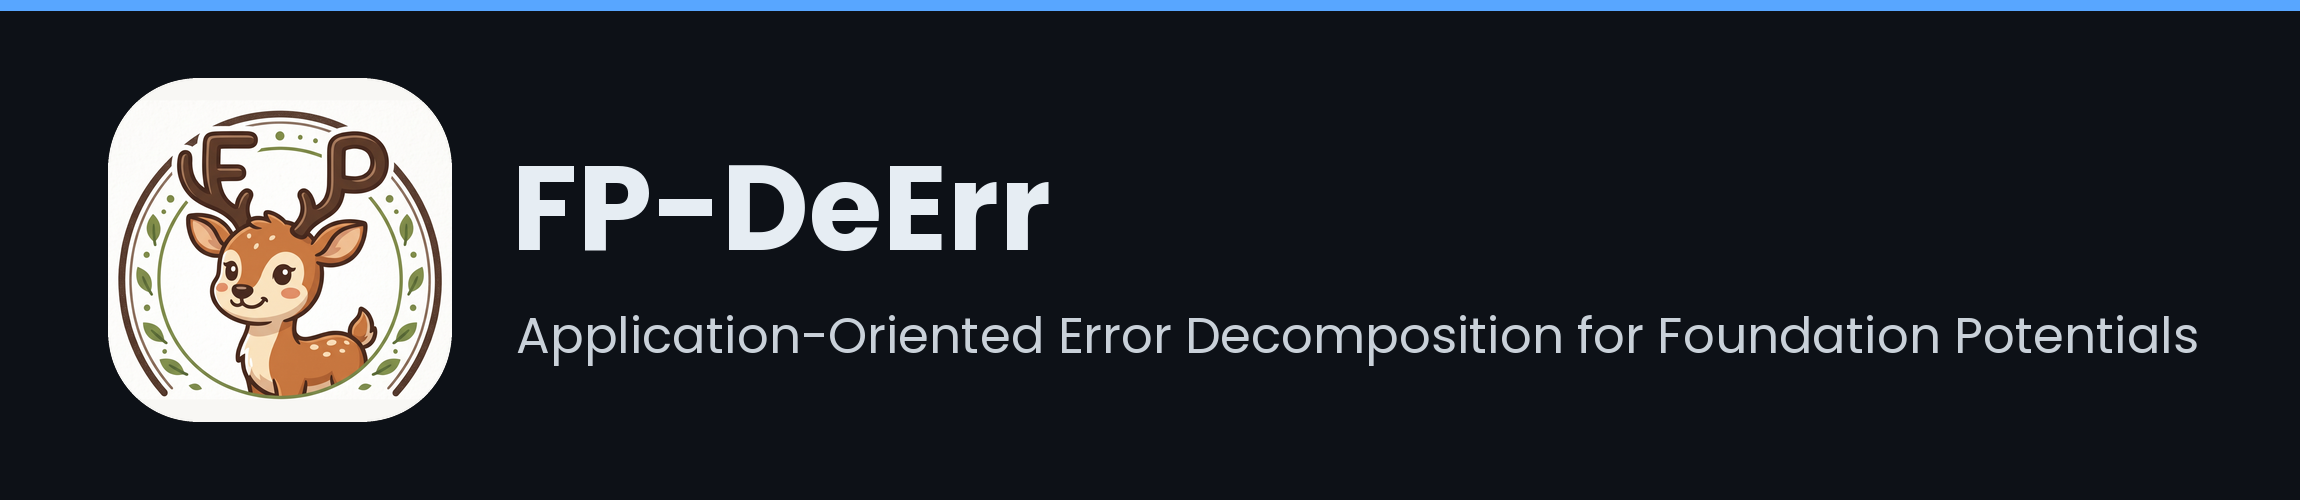
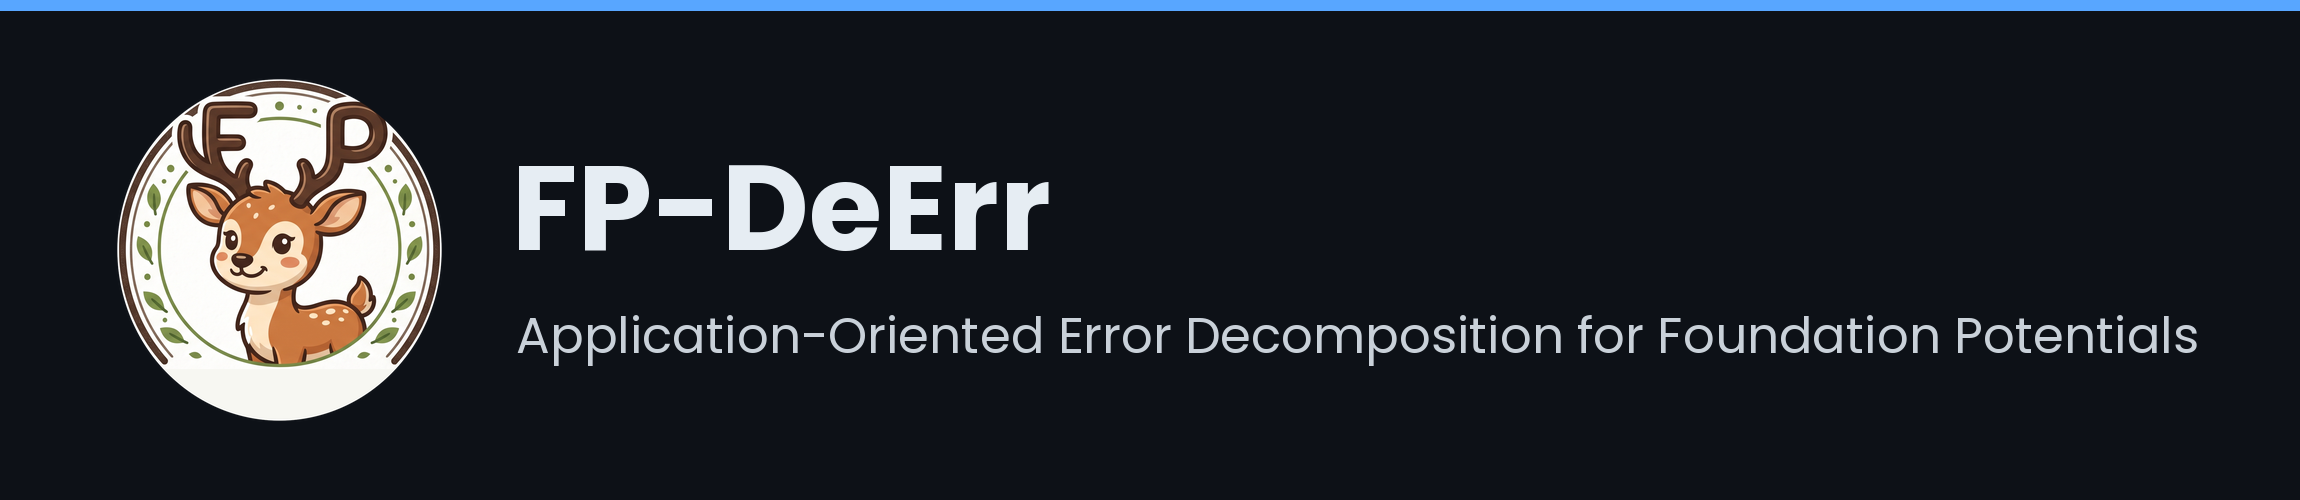
Keep the cream inside the wreath and drop only the outer background
The mark is rebuilt from the full-resolution artwork. The wreath's outer
boundary is measured from its three arc segments rather than estimated: an
oval of 1091 by 1150 on which every arc pixel lands. Cream is retained
inside that oval, including inside the counters of the F and P antlers,
and only the background outside it becomes transparent. No square or
rounded-square tile returns.

The navigation mark is a circular cream crop of the head and antlers,
which stays legible at 32 px where the whole emblem does not.

The README banner keeps its title and subtitle untouched; only the rounded
tile is replaced, by the same emblem at the tile's centre and height.

A standalone logo with the FP-DeErr wordmark is added. Its cream shape
merges the oval with a cushion around the lettering, because the wordmark
crosses the oval's edge and would otherwise sit half on cream.

Changed region(s): [[0.0309, 0.15, 0.2161, 0.87]]

diff --git a/docs/phase-stability-ordering.html b/docs/phase-stability-ordering.html
@@ -355,7 +355,7 @@
 <body>
 
 <nav>
-  <a class="logo" href="index.html"><img class="logo-mark" src="mark-face-transparent.png" alt="" />FP-DeErr</a>
+  <a class="logo" href="index.html"><img class="logo-mark" src="mark-face-emblem.png" alt="" />FP-DeErr</a>
   <div class="nav-links">
     <a href="index.html">Home</a>
     <a href="force-error.html">Force Prediction</a>
@@ -369,7 +369,7 @@
 <div class="hero">
   <div class="tag-line">FP-DeErr &middot; Phase Stability and Elemental Ordering</div>
   <div class="page-head">
-    <img class="page-mark" src="mark-transparent.png" alt="" />
+    <img class="page-mark" src="mark-emblem.png" alt="" />
     <h1>Phase Stability and Elemental Ordering</h1>
   </div>
   <p>

diff --git a/docs/index.html b/docs/index.html
@@ -197,7 +197,7 @@
 <body>
 
 <nav>
-  <a class="logo" href="index.html"><img class="logo-mark" src="mark-face-transparent.png" alt="" />FP-DeErr</a>
+  <a class="logo" href="index.html"><img class="logo-mark" src="mark-face-emblem.png" alt="" />FP-DeErr</a>
   <div class="nav-links">
     <a class="nav-highlight" href="index.html">Home</a>
     <a href="force-error.html">Force Prediction</a>
@@ -209,7 +209,7 @@
 </nav>
 
 <div class="hero">
-  <img class="hero-mark" src="mark-transparent.png" alt="FP-DeErr" />
+  <img class="hero-mark" src="mark-emblem.png" alt="FP-DeErr" />
   <h1>FP-DeErr</h1>
   <div class="tag-line">Application-Oriented Error Decomposition for Foundation Potentials</div>
   <p>

diff --git a/docs/force-error.html b/docs/force-error.html
@@ -388,7 +388,7 @@
 <body>
 
 <nav>
-  <a class="logo" href="index.html"><img class="logo-mark" src="mark-face-transparent.png" alt="" />FP-DeErr</a>
+  <a class="logo" href="index.html"><img class="logo-mark" src="mark-face-emblem.png" alt="" />FP-DeErr</a>
   <div class="nav-links">
     <a href="index.html">Home</a>
     <a class="nav-highlight" href="force-error.html">Force Prediction</a>
@@ -402,7 +402,7 @@
 <div class="hero">
   <div class="tag-line">FP-DeErr &middot; Force Prediction</div>
   <div class="page-head">
-    <img class="page-mark" src="mark-transparent.png" alt="" />
+    <img class="page-mark" src="mark-emblem.png" alt="" />
     <h1>Force Prediction</h1>
   </div>
   <p>

diff --git a/docs/ion-migration-neb.html b/docs/ion-migration-neb.html
@@ -329,7 +329,7 @@
 <body>
 
 <nav>
-  <a class="logo" href="index.html"><img class="logo-mark" src="mark-face-transparent.png" alt="" />FP-DeErr</a>
+  <a class="logo" href="index.html"><img class="logo-mark" src="mark-face-emblem.png" alt="" />FP-DeErr</a>
   <div class="nav-links">
     <a href="index.html">Home</a>
     <a href="force-error.html">Force Prediction</a>
@@ -343,7 +343,7 @@
 <div class="hero">
   <div class="tag-line">FP-DeErr &middot; Ion Migration by NEB</div>
   <div class="page-head">
-    <img class="page-mark" src="mark-transparent.png" alt="" />
+    <img class="page-mark" src="mark-emblem.png" alt="" />
     <h1>Ion Migration by NEB</h1>
   </div>
   <p>

diff --git a/docs/contribute.html b/docs/contribute.html
@@ -382,7 +382,7 @@
 <body>
 
 <nav>
-  <a class="logo" href="index.html"><img class="logo-mark" src="mark-face-transparent.png" alt="" />FP-DeErr</a>
+  <a class="logo" href="index.html"><img class="logo-mark" src="mark-face-emblem.png" alt="" />FP-DeErr</a>
   <div class="nav-links">
     <a href="index.html">Home</a>
     <a href="force-error.html">Force Prediction</a>
